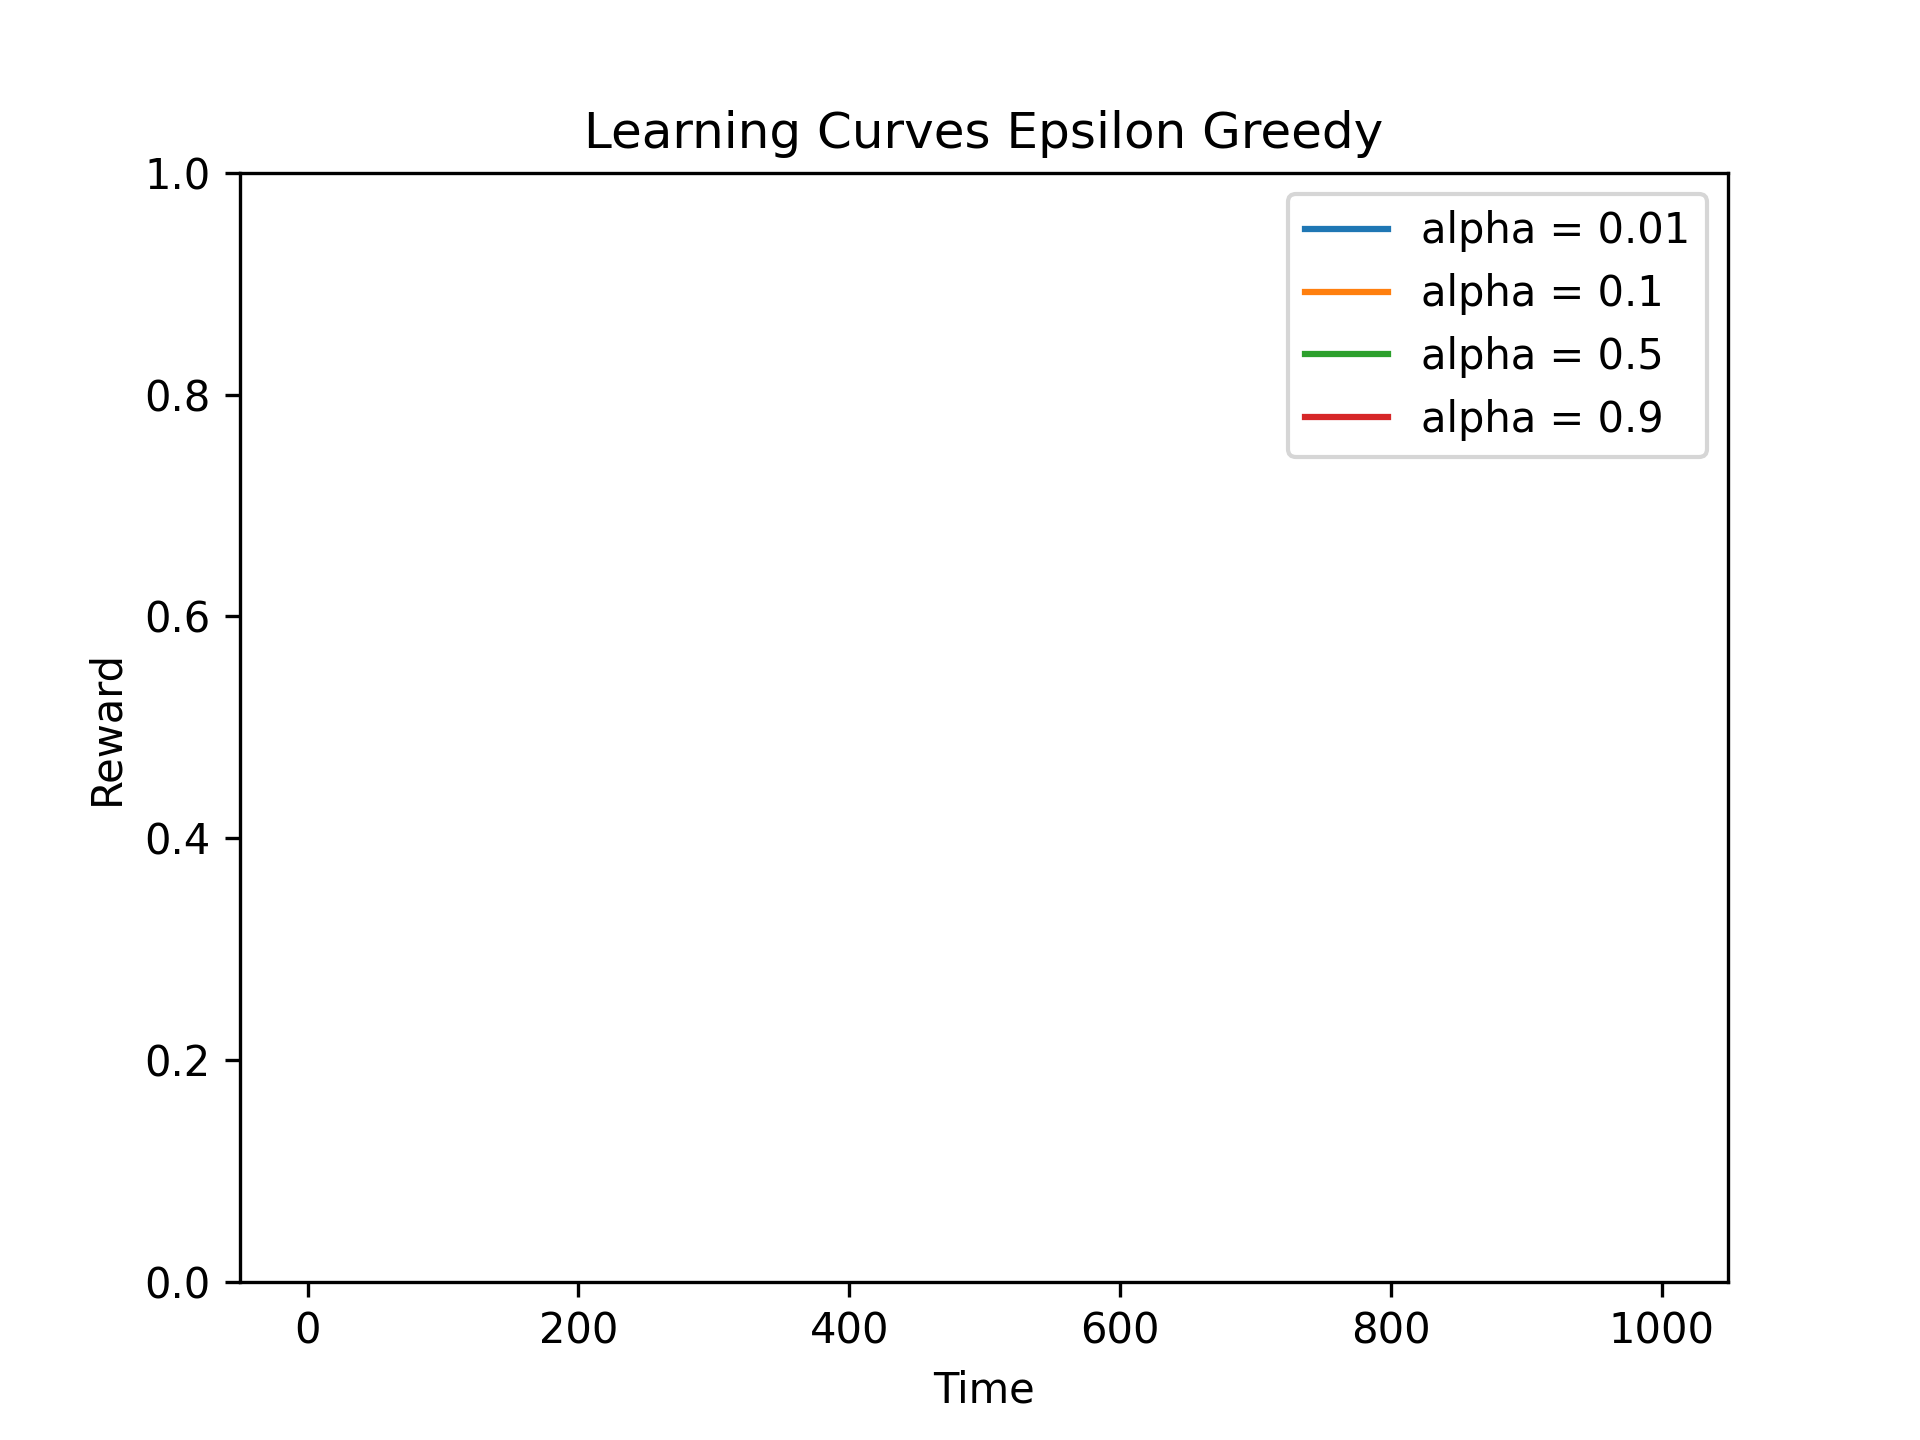
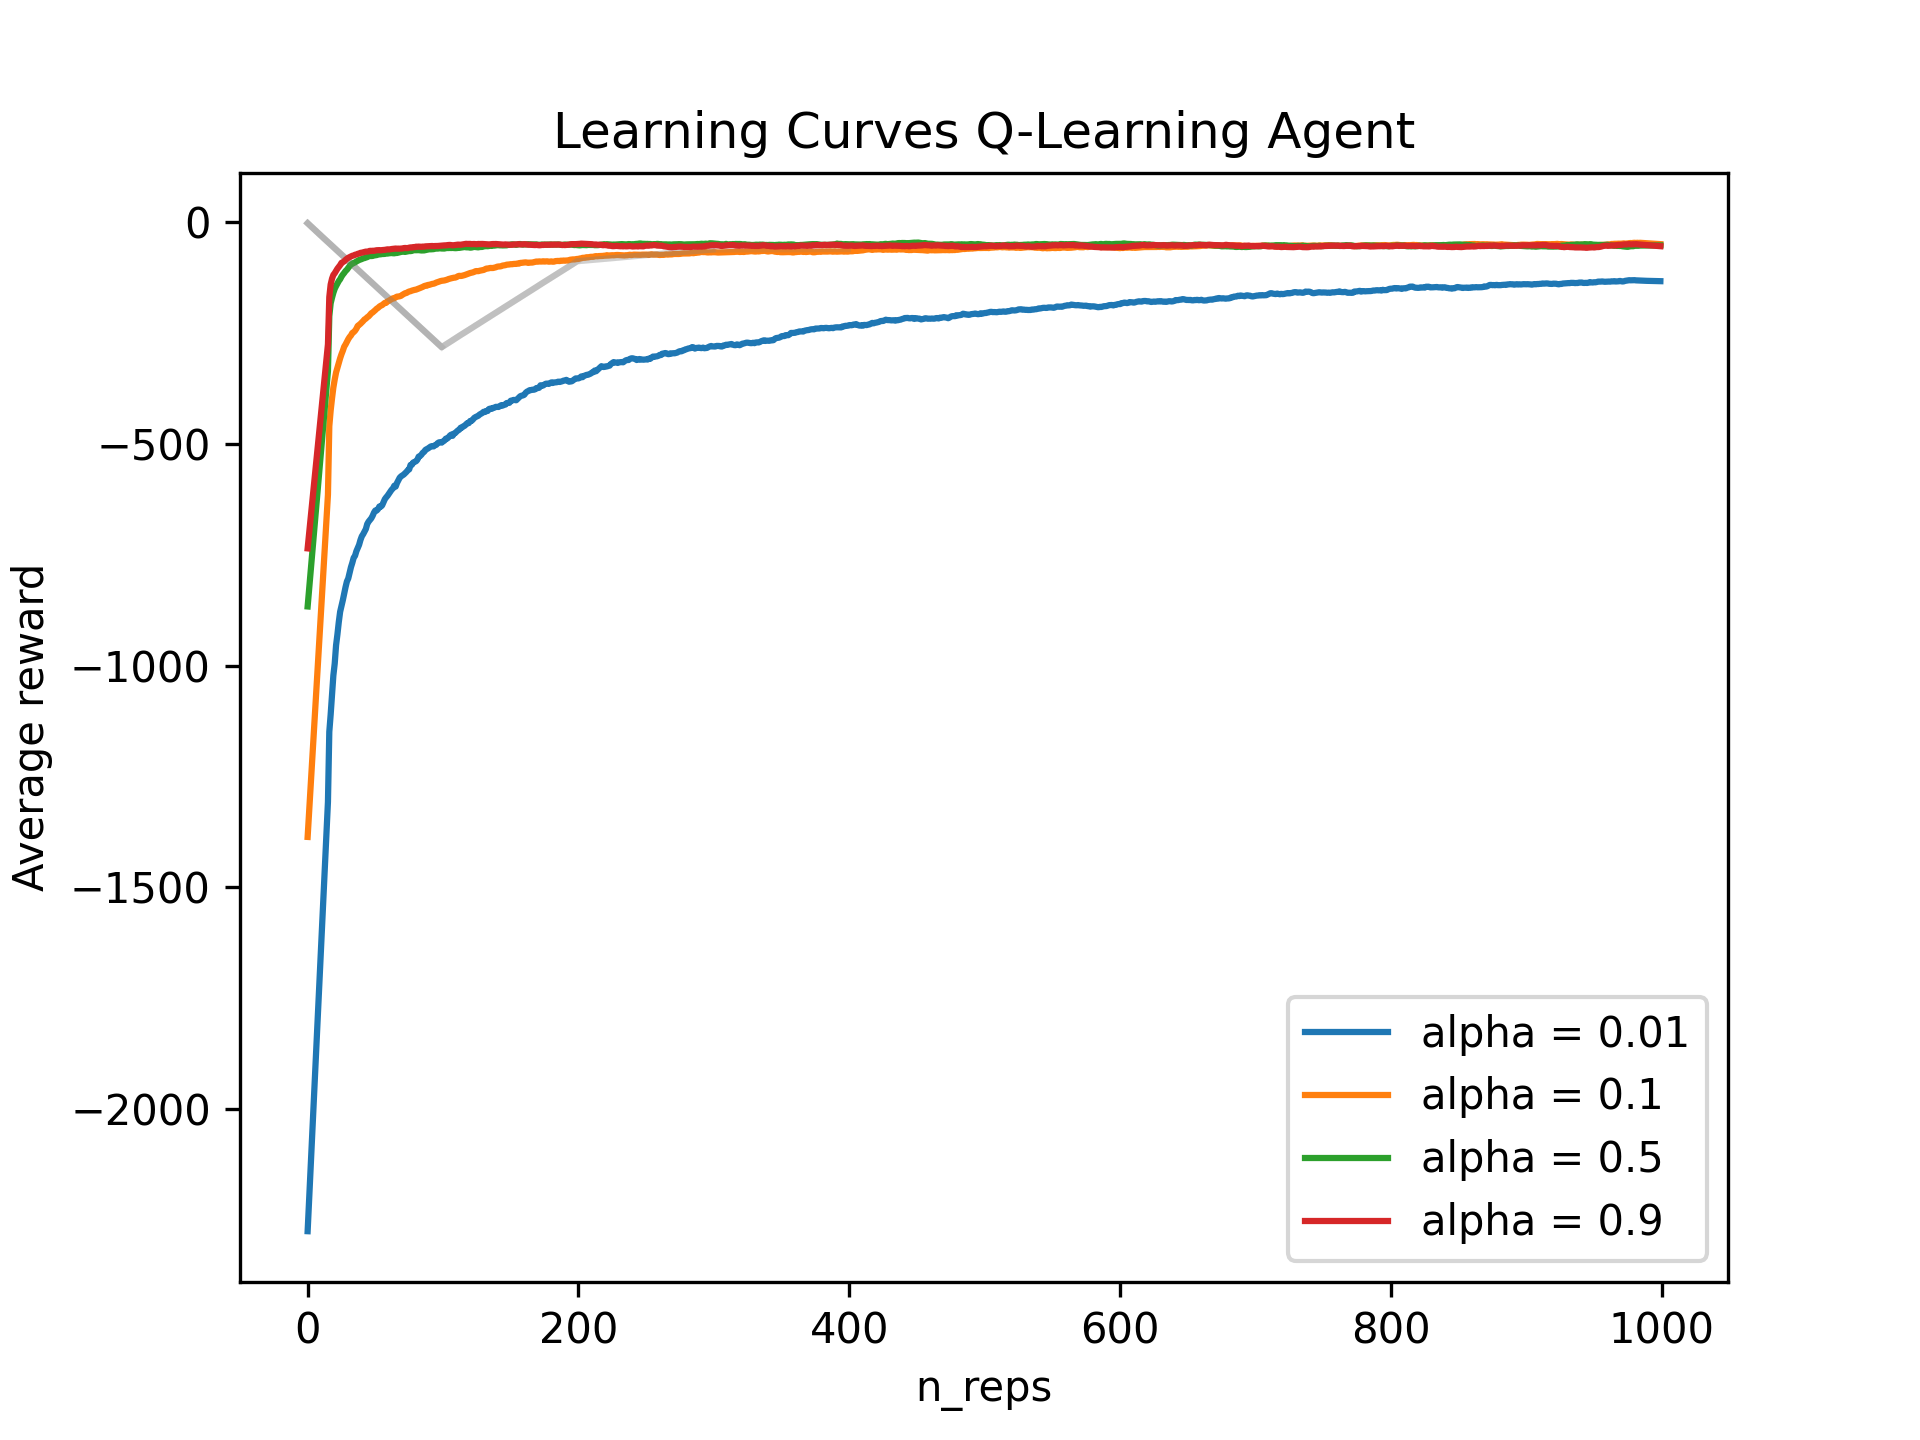
Q-Learning Agent + Plots Work

diff --git a/ShortCutExperiment.py b/ShortCutExperiment.py
@@ -1,67 +1,73 @@
 import re
 from statistics import mean
+from typing_extensions import final
 import numpy as np
 from ShortCutEnvironment import ShortcutEnvironment
 from ShortCutAgents import QLearningAgent, SARSAAgent, ExpectedSARSAAgent
 from Helper import LearningCurvePlot, ComparisonPlot, smooth
 
-def run_repetitions_QA (n_actions, n_episodes, alpha , epsilon, n_rep, n_states):
-    all_rewards = np.zeros((n_rep, n_episodes))                    #2d-array to store all the rewards in of the n_repetitions * n_episodes.
 
-    for rep in range(n_rep):                                                     #for each repetition:
-        rewards = np.zeros(n_episodes)                                             # initialize rewards
-        pi = QLearningAgent(n_actions = n_actions, n_states = n_states,
-                             alpha = alpha, epsilon = epsilon)                            # initialize policy  
+def run_repetitions_QA( n_actions, n_episodes, alpha , epsilon, n_rep, n_states, all_rewards,rewards, pi,rep):
 
-        for episode in range(n_episodes):                                        #for each repetition and episode
-            env = ShortcutEnvironment()                                             # initialize environment
+    for episode in range(n_episodes):                                        #for each repetition and episode
+        env = ShortcutEnvironment()                                             # initialize environment
 
-            while env.done() == False:
-                c_state = env.state()                                                #current state
-                a = pi.select_action(c_state)                                        #select action
-                r = env.step(a)                                                      #make move -> get reward
-                pi.update(c_state, env.state(),a,r)                                  #update policy
-                rewards[episode] += r                                                #store reward into rewards
+        while env.done() == False:
+            c_state = env.state()                                                #current state
+            a = pi.select_action(c_state)                                        #select action
+            r = env.step(a)                                                      #make move -> get reward
+            Q = pi.update(c_state, env.state(),a,r)                                  #update policy
+            rewards[episode] += r                                                #store reward into rewards
 
-            all_rewards[rep][episode] = rewards[episode]
-    Q = QLearningAgent.greedy_plot()  
-    print_greedy_actions(Q) 
-    return np.average(all_rewards, 0)                                                   #return the average over all the rewards
+        all_rewards[rep][episode] = rewards[episode]
+    
+    return (np.average(all_rewards, 0), Q)                                             #return the average over all the rewards
 
-def experiment(n_actions, n_episodes, n_rep, epsilon, smoothing_window, n_states):
+def experiment( n_actions, n_episodes, n_rep, epsilon, smoothing_window, n_states):
 
     # Assignment 1: e-greedy
     plot = LearningCurvePlot('Learning Curves Q-Learning Agent')
+    plot2 = LearningCurvePlot('Learning Curves Q-Learning Agent Final Run')
     alphas = [0.01, 0.1, 0.5, 0.9]
-    best_return_greedy = 0.0
-    best_run_greedy = [0 for x in range(n_rep)]                                   
-    average_returns_greedy = []
+    best_return_Q = 0.0
+    best_run_Q = [0 for x in range(n_rep)]                                   
+    average_returns_Q = []
+    all_rewards = np.zeros((n_rep, n_episodes))                    #2d-array to store all the rewards in of the n_repetitions * n_episodes.
     for alpha in alphas:
-        rewards = run_repetitions_QA(n_actions, n_episodes, alpha, epsilon, n_rep, n_states)
-        average_reward = np.average(rewards)                                            #getting the average rewards over all the rewards.
-        average_returns_greedy.append(average_reward)
-        if average_reward > best_return_greedy:                                         #if the average_reward is better than the so far best, the average_reward becomes the new best.
-            best_return_greedy = average_reward
-            best_run_greedy = rewards                                                   #the accompanying best run gets stored as well.
+        for rep in range(n_rep):                                                     #for each repetition:
+            print(f"Now loading alpha: {alpha}, done {rep} / {n_rep} reps", end = '\r')
+            rewards = np.zeros(n_episodes)                                             # initialize rewards
+            pi = QLearningAgent(n_actions = n_actions, n_states = n_states,
+                                alpha = alpha, epsilon = epsilon)                            # initialize policy  
+            if rep == (n_rep -1):
+                final_run_tuple = run_repetitions_QA( n_actions, n_episodes, alpha, epsilon, n_rep, n_states, all_rewards,rewards,pi,rep)
+                final_run = final_run_tuple[0]
+                plot2.add_curve((final_run), label= f'{alpha = }')
+
+            rewards_tuple = run_repetitions_QA( n_actions, n_episodes, alpha, epsilon, n_rep, n_states, all_rewards,rewards,pi,rep)
+            rewards = rewards_tuple[0]
+            average_returns_Q.append(np.average(rewards)) 
 
 
-        plot.add_curve(rewards)
+        plot.add_curve((average_returns_Q))
         plot.add_curve(smooth(rewards,smoothing_window), label = f'{alpha = }')
-  
-    plot.save("QA_1.png")
+
+    plot.save("QA_2_average.png")
+    plot2.save("QA_2_final_run.png")
+    print_greedy_actions(final_run_tuple[1])
 
 def print_greedy_actions(Q):
-     greedy_actions = np.argmax(Q, 1).reshape((12,12))
-     print_string = np.zeros((12, 12), dtype=str)
-     print_string[greedy_actions==0] = '^'
-     print_string[greedy_actions==1] = 'v'
-     print_string[greedy_actions==2] = '<'
-     print_string[greedy_actions==3] = '>'
-     print_string[np.max(Q, 1).reshape((12, 12))==0] = ' '
-     line_breaks = np.zeros((12,1), dtype=str)
-     line_breaks[:] = '\n'
-     print_string = np.hstack((print_string, line_breaks))
-     print(print_string.tobytes().decode('utf-8'))
+    greedy_actions = np.argmax(Q, 1).reshape((12,12))
+    print_string = np.zeros((12, 12), dtype=str)
+    print_string[greedy_actions==0] = '^'
+    print_string[greedy_actions==1] = 'v'
+    print_string[greedy_actions==2] = '<'
+    print_string[greedy_actions==3] = '>'
+    print_string[np.max(Q, 1).reshape((12, 12))==0] = ' '
+    line_breaks = np.zeros((12,1), dtype=str)
+    line_breaks[:] = '\n'
+    print_string = np.hstack((print_string, line_breaks))
+    print(print_string.tobytes().decode('utf-8'))
 
 
 if __name__ == '__main__':
@@ -74,5 +80,5 @@ if __name__ == '__main__':
     n_actions = 4
     n_states = 144
 
-    experiment(n_actions = n_actions, n_episodes = n_episodes, n_rep = n_rep, epsilon = epsilon, n_states = n_states, smoothing_window = smoothing_window)
+    experiment( n_actions = n_actions, n_episodes = n_episodes, n_rep = n_rep, epsilon = epsilon, n_states = n_states, smoothing_window = smoothing_window)
 

diff --git a/Helper.py b/Helper.py
@@ -16,9 +16,9 @@ class LearningCurvePlot:
 
     def __init__(self,title=None):
         self.fig,self.ax = plt.subplots()
-        self.ax.set_xlabel('Time')
-        self.ax.set_ylabel('Reward')      
-        self.ax.set_ylim([0,1.0])
+        self.ax.set_xlabel('n_reps')
+        self.ax.set_ylabel('Average reward')      
+        #self.ax.set_ylim([0,1.0])
         if title is not None:
             self.ax.set_title(title)
         
@@ -27,8 +27,8 @@ class LearningCurvePlot:
         label: string to appear as label in plot legend '''
         if label is not None:
             self.ax.plot(y,label=label)
-        else:
-            self.ax.plot(y, color = 'grey', alpha = 0.2)
+       # else:
+           # self.ax.plot(y, color = 'grey', alpha = 0.2)
         
     def save(self,name='test.png'):
         ''' name: string for filename of saved figure '''
@@ -41,8 +41,8 @@ class ComparisonPlot:
         self.fig,self.ax = plt.subplots()
         self.ax.set_xlabel('Parameter (exploration)')
         self.ax.set_ylabel('Average reward') 
-        self.ax.set_xscale('log')
-        self.ax.set_xticks(ticks=[0.01, 0.05, 0.1, 0.25, 0.5, 1.0, 2.0], labels=[0.01, 0.05, 0.1, 0.25, 0.5, 1.0, 2.0])
+      #  self.ax.set_xscale('log')
+       # self.ax.set_xticks(ticks=[0.01, 0.05, 0.1, 0.25, 0.5, 1.0, 2.0], labels=[0.01, 0.05, 0.1, 0.25, 0.5, 1.0, 2.0])
         if title is not None:
             self.ax.set_title(title)
         

diff --git a/ShortCutAgents.py b/ShortCutAgents.py
@@ -12,7 +12,7 @@ class QLearningAgent(object):
         self.alpha = alpha
         pass
 
-    def josef_select_action(self, state: int) -> int:
+    def select_action(self, state: int) -> int:
         rand: float = np.random.rand()
         greedy_a: int = np.argmax(self.action_values[state])
         if rand > self.epsilon:
@@ -23,7 +23,7 @@ class QLearningAgent(object):
                 expl_a = np.random.choice(self.n_actions)
             return expl_a
 
-    def select_action(self, state):
+    def koen_select_action(self, state):
 
         prob = [0 for x in range (self.n_actions)]                                             #create probabilities 2-d array  
 
@@ -37,7 +37,7 @@ class QLearningAgent(object):
         
     def update(self, state, next_state, action, reward):
         self.action_values[state][action] = self.action_values[state][action] + self.alpha * ( reward + 1 * np.max(self.action_values[next_state]) - self.action_values[state][action])
-        pass
+        return self.action_values
 
     def greedy_plot(self) -> np:
         Q = self.action_values
